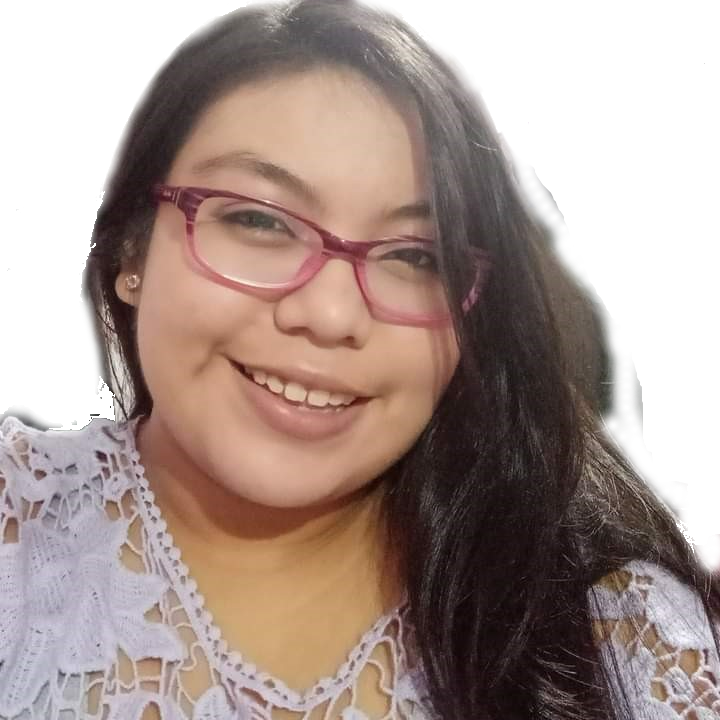
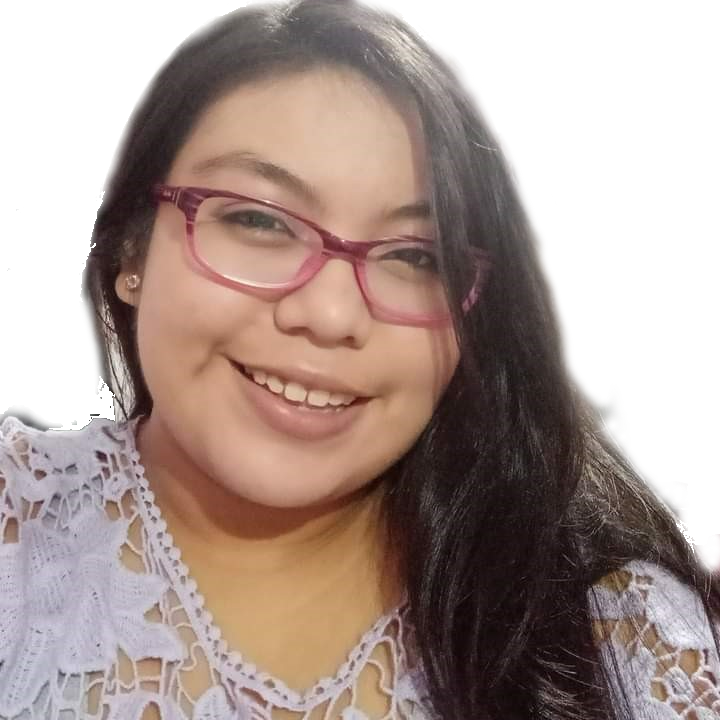
modificamos perfiles y mejoramos el bode del perfil

Changed region(s): [[0.7028, 0.2139, 0.9167, 0.6722], [0.6417, 0.1222, 0.7028, 0.2139]]

diff --git a/desktop.css b/desktop.css
@@ -109,7 +109,7 @@ body {
     z-index: 2;
     transition: 0.7s ease-in-out all;
     top: 50%;
-    left: 45%;
+    left: 50%;
     border-radius: 50%;
 
 }
@@ -120,7 +120,7 @@ body {
 }
 
 .btn-head:hover::after {
-    transform: scale(100);
+    transform: scale(150);
     transition: 0.3 ease-in-out all;
 }
 
@@ -289,7 +289,7 @@ body {
 
 .item-services {
     width: 350px;
-    height: 350px;
+    height: 375px;
     border-radius: 20px;
     box-shadow: 15px 15px 20px lightgray;
     display: flex;
@@ -323,17 +323,17 @@ body {
 .item-services::after {
     content: '';
     width: 100%;
-    height: 500px;
+    height: 550px;
     background: var(--principal);
     position: relative;
-    top: -550px;
+    top: -575px;
     border-radius: 0 0 400px 400px;
 
 
 }
 
 .item-services:hover::after {
-    top: -25px;
+    top: -20px;
     transition: 0.5s ease-in-out all;
 }
 

diff --git a/sobrenosotros/desktop.css b/sobrenosotros/desktop.css
@@ -280,7 +280,7 @@ body {
     top: 50px;
     border-radius: 50%;
     overflow: hidden;
-    border: 5px solid lightcoral;
+    border: 5px solid #52b788;
 }
 
 .image-profile-container img{
